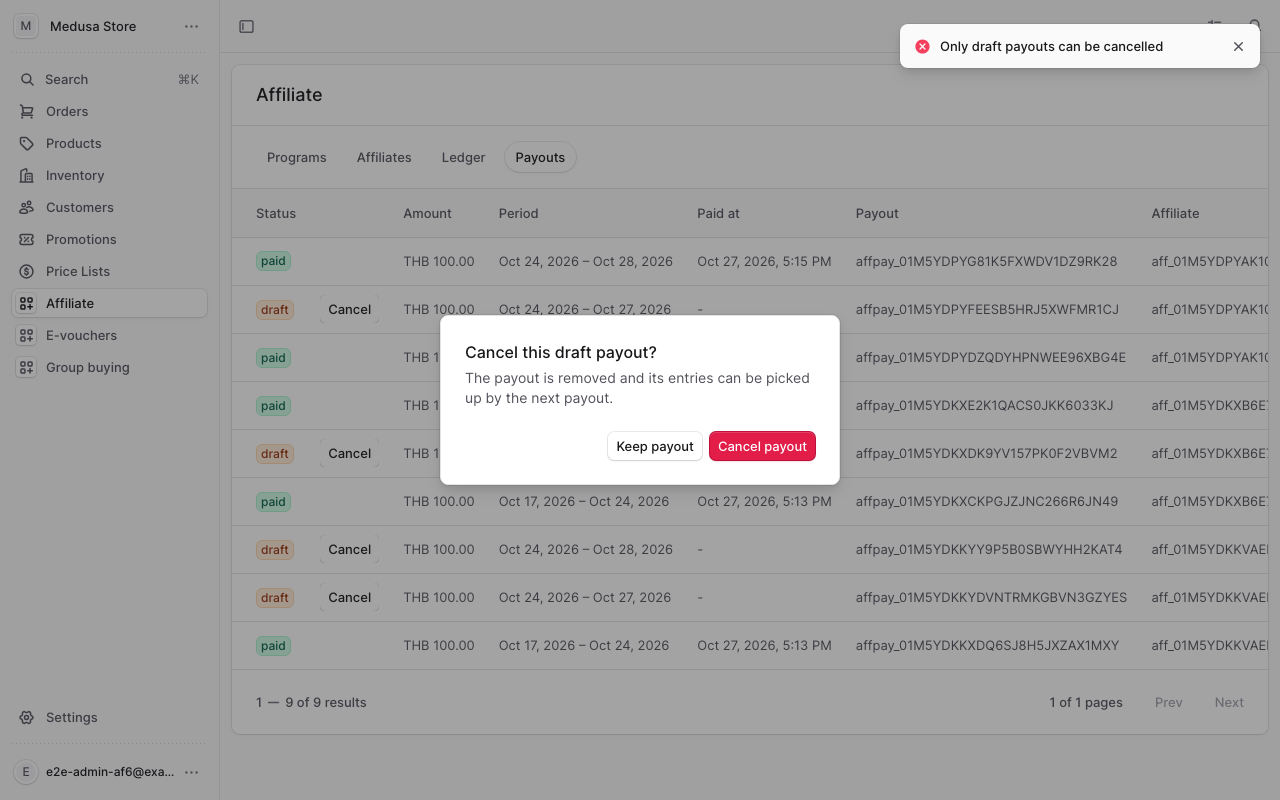
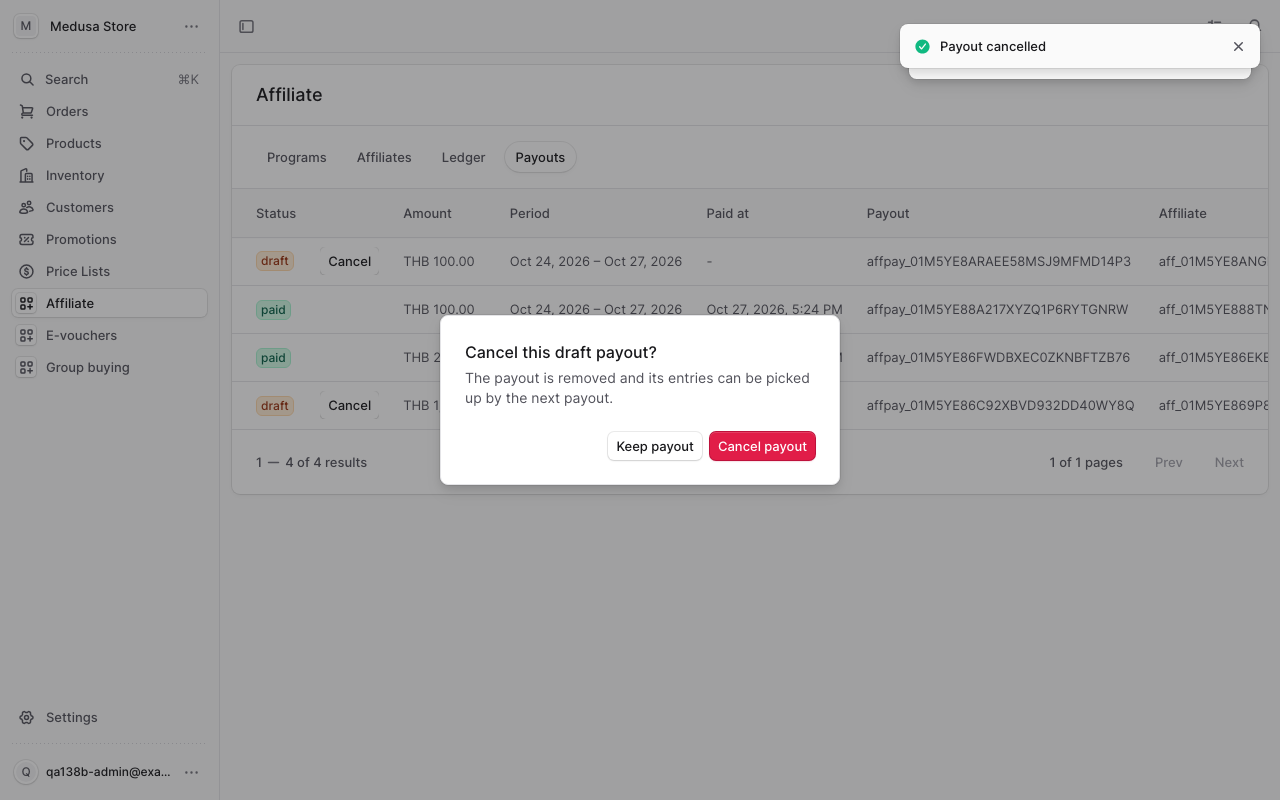
docs: บันทึกผล QA ของ AF-6 (PR #138)

diff --git a/docs/evidence/affiliate/AF-6/REPORT.md b/docs/evidence/affiliate/AF-6/REPORT.md
@@ -1,0 +1,34 @@
+# QA — AF-6 หน้า Affiliate ใน admin + ปุ่มยกเลิก payout draft (PR #138)
+
+Spec: `docs/spec/05-affiliate.md` AC-26 (รวมส่วนที่เพิ่มรอบ 10) + หัวข้อ "Admin UI / Storefront"
+- รอบ 1 · commit `c62eedb` · Chromium 1280×720
+- รอบ 2 · commit `0b9a48f` · Chromium 1280×800, `timezoneId=America/New_York` (พิสูจน์ว่าเวลาไม่ขึ้นกับเครื่อง)
+
+สภาพแวดล้อม: backend `medusa start` (prod build, `NODE_ENV=production`), `ALLOW_TEST_PROVIDERS=true`, DB/Redis db แยก, Stripe ใช้ค่าปลอม
+รอบ 2: e2e 7 test (qa รอบ 2 ×3, regression รอบ 1 ×3, builder `affiliate-admin-payouts.spec.ts` ×1) ผ่าน 2/2 รอบ; unit `affiliate-format` + `affiliate-payout` 4/4
+
+| AC | Result | Evidence |
+|----|--------|----------|
+| AC-26 เฉพาะแถว `draft` มี `affiliate-payout-cancel` (แถว `paid` ไม่มี) | pass | 01-payouts-1280x800.png |
+| AC-26 (รอบ 10) ที่ 1280×800 ปุ่มอยู่ในจอโดยไม่เลื่อนตาราง | pass | 01-payouts-1280x800.png — ปุ่มที่ x=320, y=295 (กว้าง 59) ไม่มีการเลื่อน (`scrollX`/`scrollLeft` = 0) |
+| AC-26 (รอบ 10) ยกเลิกไม่สำเร็จ → toast error + refetch | pass | 02-cancel-failed-refetch.png — mark-paid ผ่าน API ระหว่างเปิดหน้า แล้ว DELETE ได้ 400 ขึ้น toast "Only draft payouts can be cancelled" มี GET `/admin/affiliate/payouts` ตามมา แถวเป็น paid และไม่มีปุ่ม หน้าไม่ reload |
+| AC-26 กดแล้วปิดกล่องยืนยัน (Keep payout และ Escape) → ไม่มี request | pass | 03-confirm-prompt.png — DELETE 0 ครั้ง |
+| AC-26 dblclick แล้วยืนยัน → DELETE 1 ครั้ง แถวหายโดยไม่ reload + toast | pass | 04-draft-cancelled.png — toast "Payout cancelled" และ GET payout ได้ 404 |
+| Admin UI: เวลาแสดงตาม Asia/Bangkok | pass | browser ตั้งเป็น New York: starts_at `…T17:30Z` แสดง "Oct 8, 2026, 12:30 AM" (ไม่ใช่ 1:30 PM); paid_at และ period ตรงกับค่าที่คำนวณแบบ Asia/Bangkok |
+| Admin UI: จำนวนเงินรูปแบบ "THB x,xxx.xx" | pass | Ledger และ Payouts แสดง "THB 1,234.50" กับ "THB 250.00" |
+| Admin UI: Programs / Affiliates / Ledger / Payouts โหลดรายการ, เปลี่ยนหน้า (pageSize 20), empty state | pass | regression รอบ 2 ผ่าน (Next ไป `offset=20`, ทั้ง 4 แท็บยิง GET ของตัวเอง) |
+| ปุ่ม admin กันกดซ้ำ (CLAUDE.md) | pass | คลิกรัว 4 ครั้งเปิดกล่องเดียว; dblclick ยืนยัน → DELETE 1 ครั้ง; ระหว่าง DELETE ปุ่มทุกแถว disabled และบังคับคลิกแถวอื่นไม่เปิดกล่อง |
+| ข้อความ admin เป็นภาษาอังกฤษ | pass | ไม่มีอักษรไทยทั้ง 4 แท็บ |
+
+## Negative / edge
+| กรณี | ผล |
+|------|----|
+| payout ถูก mark-paid ระหว่างที่หน้ายังแสดง draft | pass — 400, toast error, refetch, แถวกลายเป็น paid ไม่มีปุ่ม (รอบ 1 พบว่าไม่ refetch → แก้แล้วในรอบ 2) |
+| หลังยกเลิกไม่สำเร็จ ยกเลิกแถวอื่นต่อ | pass — DELETE 1 ครั้ง แถวหาย (การกันกดซ้ำถูกปลดหลัง error) |
+| หลัง DELETE ที่ถูกกักไว้ปล่อยออกไป ยกเลิกแถวถัดไป | pass — เปิดกล่องได้ DELETE 1 ครั้ง |
+
+## ข้อสังเกต (ไม่ใช่ defect)
+- รอบ 2 ย้าย Status/Cancel ไปไว้ซ้าย ทำให้คอลัมน์ Affiliate อยู่ขวาสุดและถูกตัดที่ 1280px ต้องเลื่อนตารางเพื่อดู id เต็ม
+- ข้อสังเกตรอบ 1 ทั้งสองข้อ (ปุ่มอยู่นอกจอที่ 1280px และ error แล้วไม่ refetch) แก้แล้วตาม AC-26 รอบ 10
+
+รายงานและ trace ฉบับเต็ม: CI artifact ของ https://github.com/techpowerdev/medusa-ecom/actions/runs/40487293548 (14 วัน; รอบ 1: runs/40475856795)
